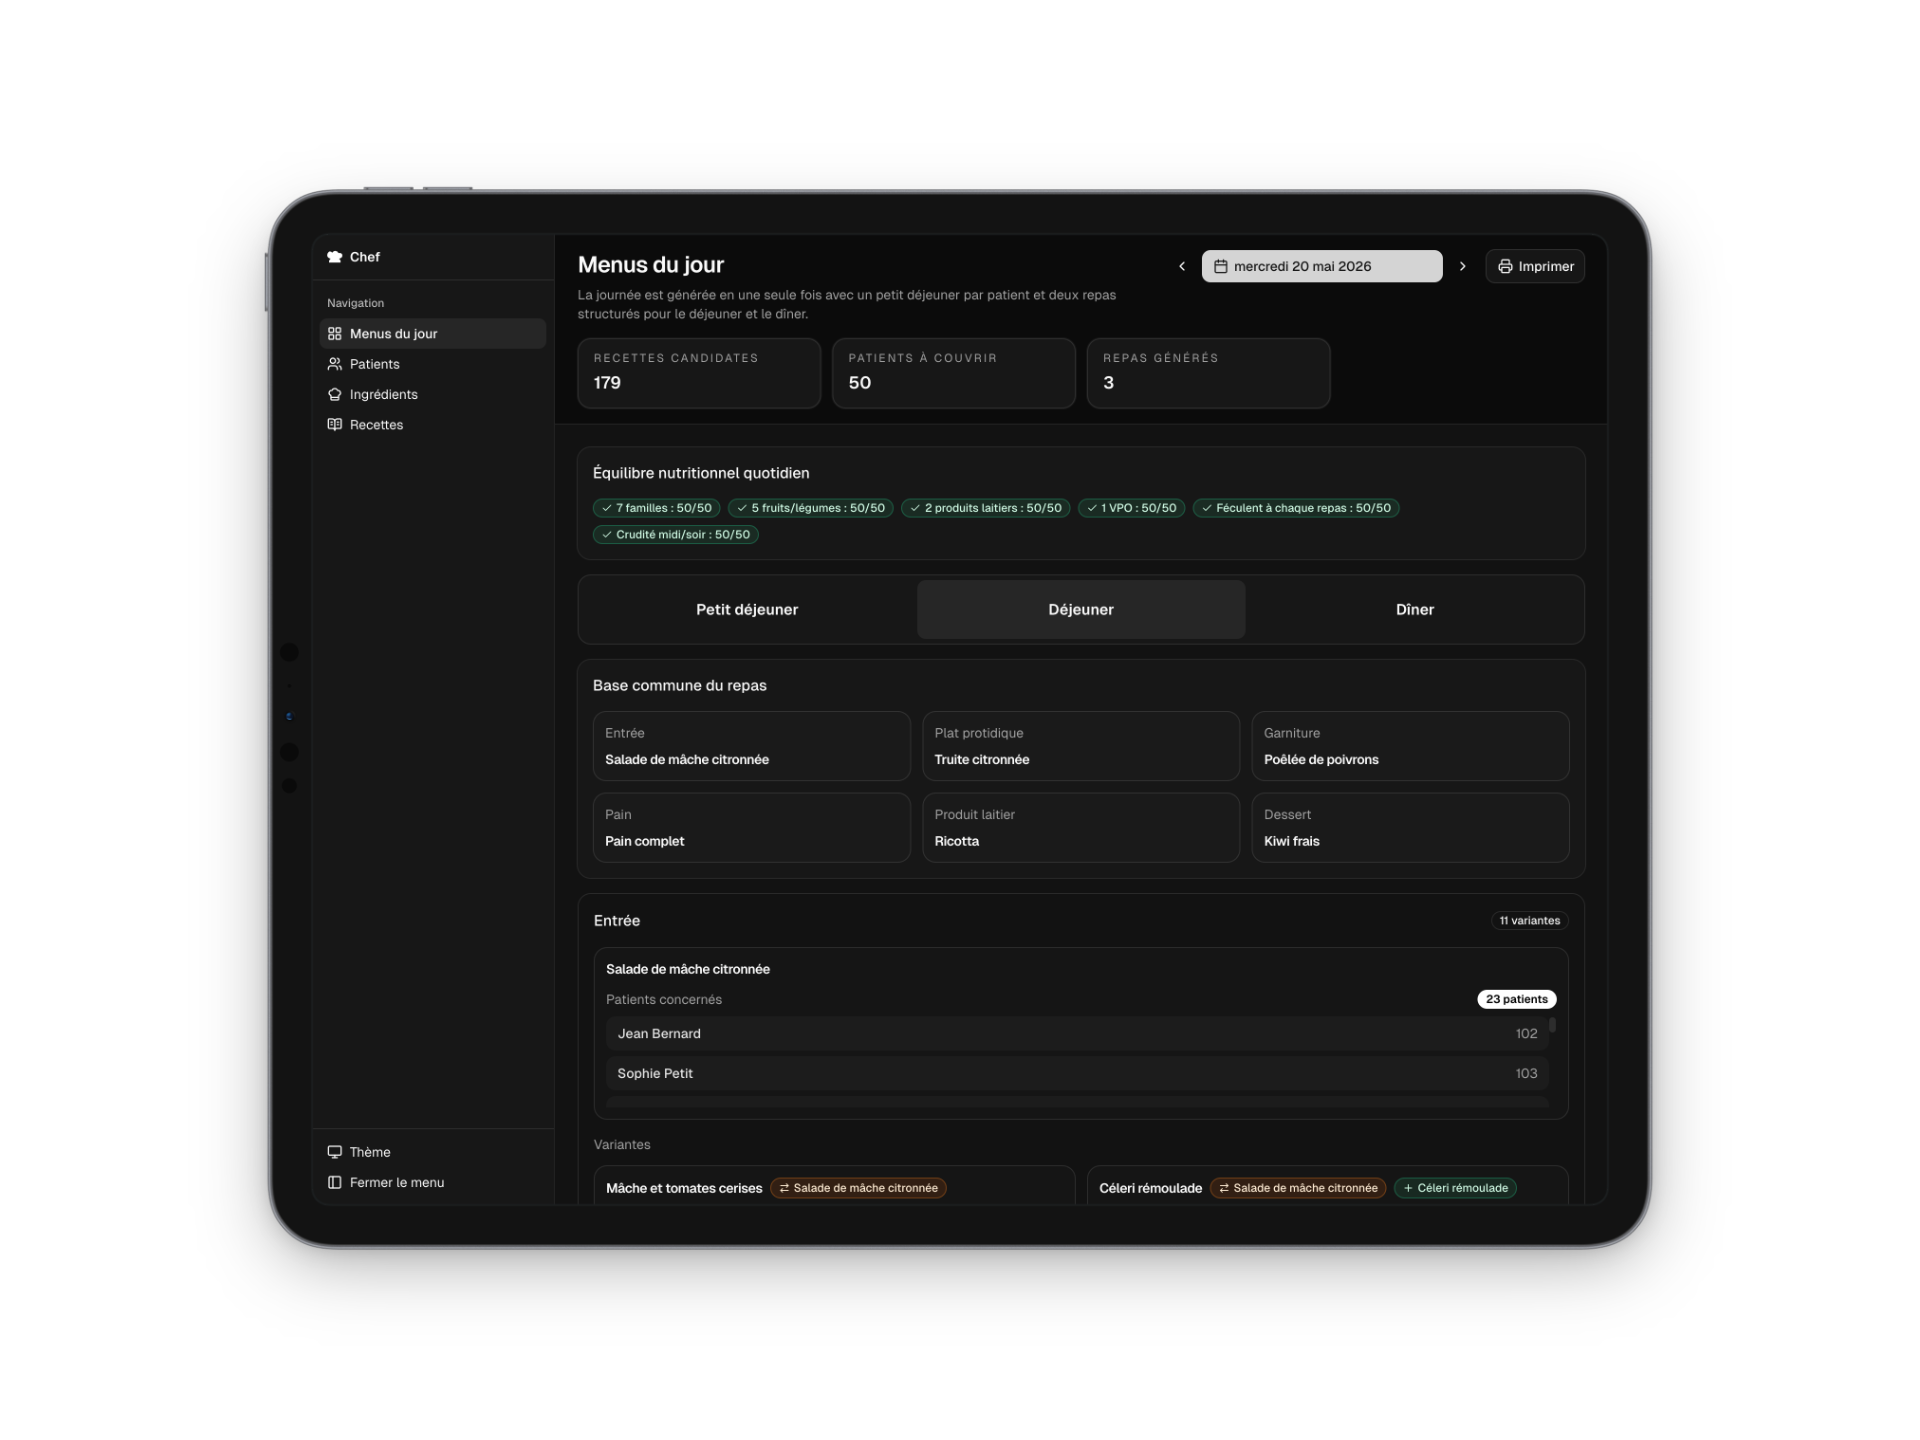
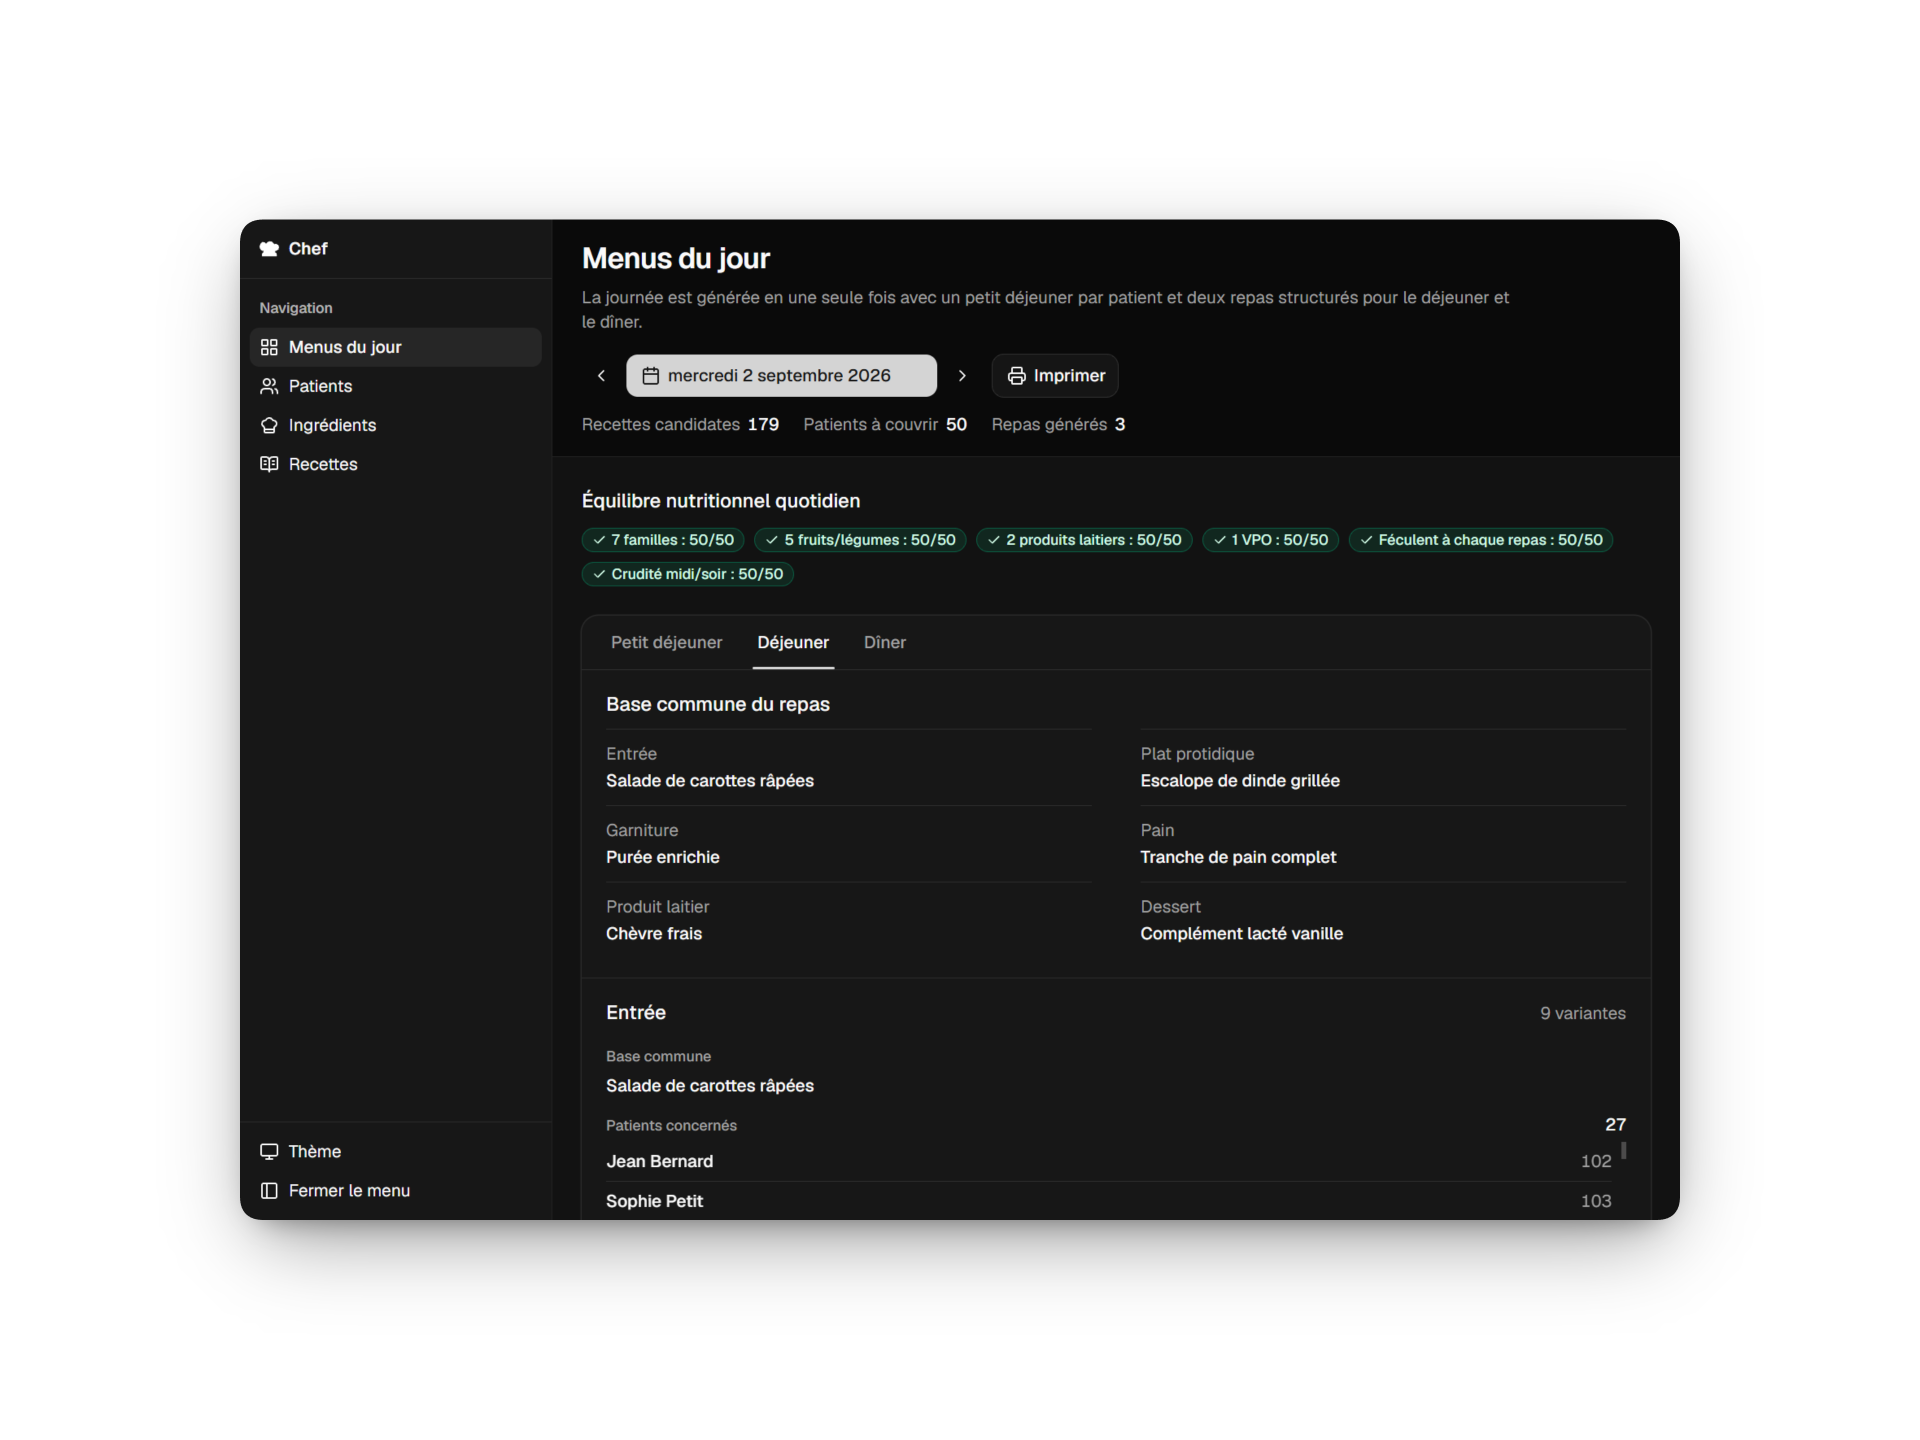
Add PoppyDisk project and refine portfolio details
- Add PoppyDisk project imagery, metadata, and styling
- Update project links, stack labels, and image positioning
- Fix chat border-beam radius and refresh Chef imagery

diff --git a/src/lib/projects.ts b/src/lib/projects.ts
@@ -1,6 +1,6 @@
 type ProjectTag = [name: string, url: string];
 
-export type FeaturedTone = "cinema" | "health" | "food";
+export type FeaturedTone = "cinema" | "disk" | "health" | "food";
 
 export type FeaturedProject = {
   kicker: string;
@@ -48,7 +48,7 @@ export const featuredDuo: FeaturedDuo = {
   lightImage: "/nooli-hungi-light.png",
   darkImage: "/nooli-hungi-dark.png",
   imageAlt: "Écrans iPhone de Nooli et Hungi",
-  imagePosition: "left",
+  imagePosition: "right",
   tone: "food",
   apps: [
     {
@@ -70,7 +70,7 @@ export const featuredDuo: FeaturedDuo = {
     ["AI SDK", "https://ai-sdk.dev/"],
     ["GPT", "https://openai.com/api/"],
     ["Spoonacular", "https://spoonacular.com/food-api"],
-    ["TS Query", "https://tanstack.com/query"],
+    ["TanStack Query", "https://tanstack.com/query"],
     ["BetterAuth", "https://www.better-auth.com/"],
     ["Drizzle", "https://orm.drizzle.team/"],
     ["PostgreSQL", "https://www.postgresql.org/"],
@@ -86,7 +86,8 @@ export const projects: Project[] = [
     name: "MacGuffin",
     description:
       "App mobile pour découvrir les meilleurs films à voir au cinéma autour de soi, et réserver sa séance.",
-    appStore: "https://apps.apple.com/fr/app/macguffin/id6761733673",
+    appStore: "https://mcgff.in/appstore",
+    url: "https://mcgff.in/",
     featured: {
       kicker: "App iOS",
       lightImage: "/macguffin-light.png",
@@ -111,6 +112,34 @@ export const projects: Project[] = [
     ],
   },
   {
+    name: "PoppyDisk",
+    description:
+      "App desktop d'analyse de l'espace disque, avec carte radiale interactive, inspection des dossiers volumineux, et suppression sécurisée.",
+    url: "https://poppydisk.com/",
+    featured: {
+      kicker: "App Windows",
+      lightImage: "/poppydisk.png",
+      darkImage: "/poppydisk.png",
+      imageAlt: "Interface de PoppyDisk",
+      imagePosition: "right",
+      tone: "disk",
+      ctaLabel: "Visiter le site",
+    },
+    tags: [
+      ["Tauri", "https://v2.tauri.app/"],
+      ["Rust", "https://www.rust-lang.org/"],
+      ["Vite", "https://vite.dev/"],
+      ["TanStack Router", "https://tanstack.com/router"],
+      ["TanStack Query", "https://tanstack.com/query"],
+      ["Zustand", "https://zustand.docs.pmnd.rs/"],
+      ["Tailwind", "https://tailwindcss.com/"],
+      ["Shadcn", "https://ui.shadcn.com/"],
+      ["Polar", "https://polar.sh/"],
+      ["Sentry", "https://sentry.io/"],
+      ["PostHog", "https://posthog.com/"],
+    ],
+  },
+  {
     name: "Chef",
     description:
       "SaaS de gestion automatisée des repas hospitaliers, respectant les normes d'équilibre nutritionnel, et les contraintes patient et métier.",
@@ -120,7 +149,7 @@ export const projects: Project[] = [
       lightImage: "/chef-light.png",
       darkImage: "/chef-dark.png",
       imageAlt: "Interface de Chef affichée sur tablette",
-      imagePosition: "right",
+      imagePosition: "left",
       tone: "health",
       ctaLabel: "Visiter le site",
     },
@@ -129,7 +158,6 @@ export const projects: Project[] = [
       ["Tailwind", "https://tailwindcss.com/"],
       ["Shadcn", "https://ui.shadcn.com/"],
       ["Playwright", "https://playwright.dev/"],
-      ["Claude Code", "https://www.anthropic.com/claude-code"],
     ],
   },
   {
@@ -163,7 +191,6 @@ export const projects: Project[] = [
       ["BetterAuth", "https://www.better-auth.com/"],
       ["Drizzle", "https://orm.drizzle.team/"],
       ["PostgreSQL", "https://www.postgresql.org/"],
-      ["Claude Code", "https://www.anthropic.com/claude-code"],
     ],
   },
   {
@@ -175,9 +202,9 @@ export const projects: Project[] = [
       ["Vite", "https://vite.dev/"],
       ["Zustand", "https://zustand.docs.pmnd.rs/"],
       ["Zod", "https://zod.dev/"],
-      ["TS Router", "https://tanstack.com/router"],
-      ["TS Query", "https://tanstack.com/query"],
-      ["TS Virtual", "https://tanstack.com/virtual"],
+      ["TanStack Router", "https://tanstack.com/router"],
+      ["TanStack Query", "https://tanstack.com/query"],
+      ["TanStack Virtual", "https://tanstack.com/virtual"],
       ["Turborepo", "https://turborepo.com/"],
       ["Shadcn", "https://ui.shadcn.com/"],
       ["Vitest", "https://vitest.dev/"],

diff --git a/src/app/page.tsx b/src/app/page.tsx
@@ -29,15 +29,17 @@ type FeaturedProjectItem = Project & { featured: FeaturedProject };
 
 const featuredKickerClasses: Record<FeaturedTone, string> = {
   cinema: "text-red-700 dark:text-red-300",
-  health: "text-emerald-700 dark:text-emerald-300",
+  disk: "text-[#2f6b4f] dark:text-[#6fc79a]",
+  health: "text-sky-700 dark:text-sky-300",
   food: "text-amber-700 dark:text-amber-300",
 };
 
 const featuredTagClasses: Record<FeaturedTone, string> = {
   cinema:
     "border-transparent bg-red-100/80 text-red-950 [a&]:hover:bg-red-100 dark:bg-red-950/70 dark:text-red-100 dark:[a&]:hover:bg-red-950",
+  disk: "border-transparent bg-[#e3f1e9]/80 text-[#003921] [a&]:hover:bg-[#e3f1e9] dark:bg-[#023521]/70 dark:text-[#c9e6d5] dark:[a&]:hover:bg-[#023521]",
   health:
-    "border-transparent bg-emerald-100/80 text-emerald-950 [a&]:hover:bg-emerald-100 dark:bg-emerald-950/70 dark:text-emerald-100 dark:[a&]:hover:bg-emerald-950",
+    "border-transparent bg-sky-100/80 text-sky-950 [a&]:hover:bg-sky-100 dark:bg-sky-950/70 dark:text-sky-100 dark:[a&]:hover:bg-sky-950",
   food: "border-transparent bg-amber-100/80 text-amber-950 [a&]:hover:bg-amber-100 dark:bg-amber-950/70 dark:text-amber-100 dark:[a&]:hover:bg-amber-950",
 };
 
@@ -320,15 +322,29 @@ function FeaturedProjectCard({
             <ProjectTags project={project} />
           </div>
           {href && (
-            <Button className="mt-2 gap-2" asChild>
-              <Link target="_blank" rel="noopener noreferrer" href={href}>
-                {project.appStore && <Apple />}
-                <span>{project.featured.ctaLabel}</span>
-                {!project.appStore && (
-                  <ArrowUpRight className="size-4 transition-transform duration-300 ease-out motion-safe:group-hover:translate-x-0.5 motion-safe:group-hover:-translate-y-0.5" />
-                )}
-              </Link>
-            </Button>
+            <div className="mt-2 flex flex-wrap items-center gap-2.5">
+              <Button className="gap-2" asChild>
+                <Link target="_blank" rel="noopener noreferrer" href={href}>
+                  {project.appStore && <Apple />}
+                  <span>{project.featured.ctaLabel}</span>
+                  {!project.appStore && (
+                    <ArrowUpRight className="size-4 transition-transform duration-300 ease-out motion-safe:group-hover:translate-x-0.5 motion-safe:group-hover:-translate-y-0.5" />
+                  )}
+                </Link>
+              </Button>
+              {project.appStore && project.url && (
+                <Button variant="outline" className="gap-2" asChild>
+                  <Link
+                    target="_blank"
+                    rel="noopener noreferrer"
+                    href={project.url}
+                  >
+                    <span>Visiter le site</span>
+                    <ArrowUpRight className="size-4 transition-transform duration-300 ease-out motion-safe:group-hover:translate-x-0.5 motion-safe:group-hover:-translate-y-0.5" />
+                  </Link>
+                </Button>
+              )}
+            </div>
           )}
         </div>
         <FeaturedProjectMedia

diff --git a/src/components/chat.tsx b/src/components/chat.tsx
@@ -70,11 +70,17 @@ export function Chat() {
               </AnimatePresence>
             </div>
           )}
+          {/*
+           * borderRadius must match the input's `rounded-lg` (--radius, 8px).
+           * Without it BorderBeam paints its size default (16px) until an effect
+           * measures the child, which flashes a near-pill border on load.
+           */}
           <BorderBeam
             className="relative"
             theme="auto"
             colorVariant={isBusy ? "colorful" : "mono"}
             strength={isBusy ? 1 : 0.75}
+            borderRadius={8}
           >
             <Input
               className="pointer-events-auto relative h-12 w-full rounded-lg bg-background pr-12 pl-4 text-base shadow-sm md:text-base dark:bg-accent"
